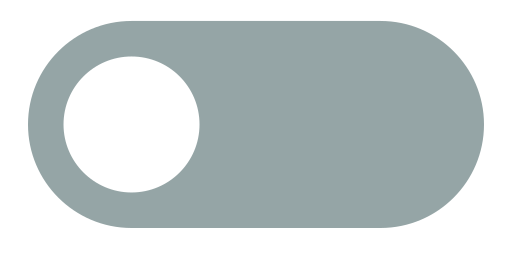
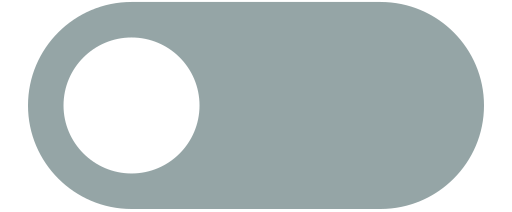
Implemented toggle button added username to player_id file added return of current resolution to settings object to apply

diff --git a/client/game_objects/pages/settings.py b/client/game_objects/pages/settings.py
@@ -23,6 +23,11 @@ class Settings(GameWindow):
         self.screen_size_left_arrow = None
         self.music_toggle = None
 
+        self.music_state_on = True
+        self.current_resolution = self.SCREEN_SIZE_CAPTIONS[1]
+        # TODO: implement username
+        self.current_username = None
+
         self.build()
 
     def build(self):
@@ -39,15 +44,15 @@ class Settings(GameWindow):
             client.TILE_WIDTH_PERCENTAGE_FROM_SCREEN,
             client.TILE_WIDTH_ADDITION,
             client.TILE_HEIGHT_ADDITION,
-            self.SCREEN_SIZE_CAPTIONS[1],
+            self.current_resolution,
             self.SCREEN_SIZE_CAPTIONS,
         )
 
         self.screen_size_right_arrow = self.screen_size_tile.right_arrow
         self.screen_size_left_arrow = self.screen_size_tile.left_arrow
 
-        self.screen_size_tile.rect.left = self.screen_rect.centerx + 25
-        self.screen_size_tile.rect.centery = self.screen_rect.centery
+        self.screen_size_tile.rect.centerx = self.screen_rect.centerx
+        self.screen_size_tile.rect.bottom = self.screen_rect.centery - 10
 
         self.screen_size_tile.update()
 
@@ -57,10 +62,12 @@ class Settings(GameWindow):
     def build_music_toggle(self):
         on_surface = pygame.image.load(f"{client.IMG_PATH}button_on.png")
         off_surface = pygame.image.load(f"{client.IMG_PATH}button.png")
-        self.music_toggle = ToggleTile("music_toggle", on_surface, self.screen, client.TILE_WIDTH_PERCENTAGE_FROM_SCREEN, 0, 0, (on_surface, off_surface))
+        self.music_toggle = ToggleTile("music_toggle_on", on_surface, self.screen, client.TILE_WIDTH_PERCENTAGE_FROM_SCREEN, 0, 0, off_surface)
 
-        self.music_toggle.rect.right = self.screen_rect.centerx - 25
-        self.music_toggle.rect.centery = self.screen_rect.centery
+        self.music_toggle.rect.centerx = self.screen_rect.centerx
+        self.music_toggle.rect.top = self.screen_rect.centery + 10
+
+        self.tiles_group.add(self.music_toggle)
 
     def blit(self):
         self.screen.blit(self.background_image, self.background_rect)
@@ -84,8 +91,11 @@ class Settings(GameWindow):
 
     def activate_tile(self, tile, event_handler):
         if tile.name == "screen_size_right_arrow":
-            self.screen_size_tile.next_text()
+            self.current_resolution = self.screen_size_tile.next_text()
         if tile.name == "screen_size_left_arrow":
-            self.screen_size_tile.previous_text()
+            self.current_resolution = self.screen_size_tile.previous_text()
+        if tile.name == "music_toggle_on" or tile.name == "music_toggle_off":
+            self.music_toggle.next_value()
+            self.music_state_on = not self.music_state_on
 
         return None, False

diff --git a/client/game_objects/tiles/toggle_tile.py b/client/game_objects/tiles/toggle_tile.py
@@ -6,28 +6,38 @@ class ToggleTile(Tile):
     def __init__(
             self,
             name,
-            surface,
+            current_surface,
             screen,
             size_percent,
             tile_addition_width,
             tile_addition_height,
-            slide_values: tuple,
+            next_surface,
     ):
         super().__init__(
             name,
-            surface,
+            current_surface,
             screen,
             size_percent,
             tile_addition_width,
             tile_addition_height,
         )
 
-        self.values = slide_values
+        self.next_surface = Tile("music_toggle_on", next_surface, screen, size_percent, tile_addition_width, tile_addition_height)
+
+        self.values = (self, self.next_surface)
 
     def next_value(self):
-        index = self.values.index(self.image)
+        self.next_surface.rect.centerx = self.rect.centerx
+        self.next_surface.rect.centery = self.rect.centery
 
-        if index > 1:
-            index = 0
+        temp_image = self.image
+        temp_rect = self.rect
 
-        self.image = self.values[index]
+        index = self.values.index(self) - 1
+        self.image = self.values[index].image
+
+        self.rect = self.next_surface.rect
+
+        self.next_surface.image = temp_image
+        self.next_surface.rect = temp_rect
+

diff --git a/client/break_the_code.py b/client/break_the_code.py
@@ -39,17 +39,19 @@ def get_or_generate_player_id():
     with open("player_id.txt", "a+") as f:
         if os.stat("player_id.txt").st_size == 0:
             f.write(str(uuid.uuid4()))
+            f.write("\nUnknown")
 
     # Open the player_id file and read the uuid
-    f = open("player_id.txt", "r")
-    player_id = f.read()
-    return player_id
+    with open("player_id.txt", "r") as f:
+        player_details = f.read()
+
+    return player_details.split("\n")
 
 
 def start_game():
     # This will stay commented for testing and will be removed when
     # in actual release or specific testing of this feature
-    # player_id = get_or_generate_player_id()
+    player_id, username = get_or_generate_player_id()
     player_id = str(uuid.uuid4())
 
     pygame.init()

diff --git a/client/game_objects/tiles/text_slideshow_tile.py b/client/game_objects/tiles/text_slideshow_tile.py
@@ -118,10 +118,10 @@ class TextSlideshowTile(Tile):
         )
 
     def next_text(self):
-        self.change_tile(1)
+        return self.change_tile(1)
 
     def previous_text(self):
-        self.change_tile(-1)
+        return self.change_tile(-1)
 
     def change_tile(self, tile_place: int):
         """Changes the current_text that's being displayed in the image box
@@ -139,3 +139,5 @@ class TextSlideshowTile(Tile):
 
         self.load_text()
         self.update_text_position()
+
+        return self.slide_values[next_index]

diff --git a/client/game_objects/pages/game_window.py b/client/game_objects/pages/game_window.py
@@ -14,8 +14,6 @@ class GameWindow:
         self.background_image = None
         self.background_rect = None
 
-        self.build()
-
     def activate_tile(self, tile, event_handler):
         return None, False
 
